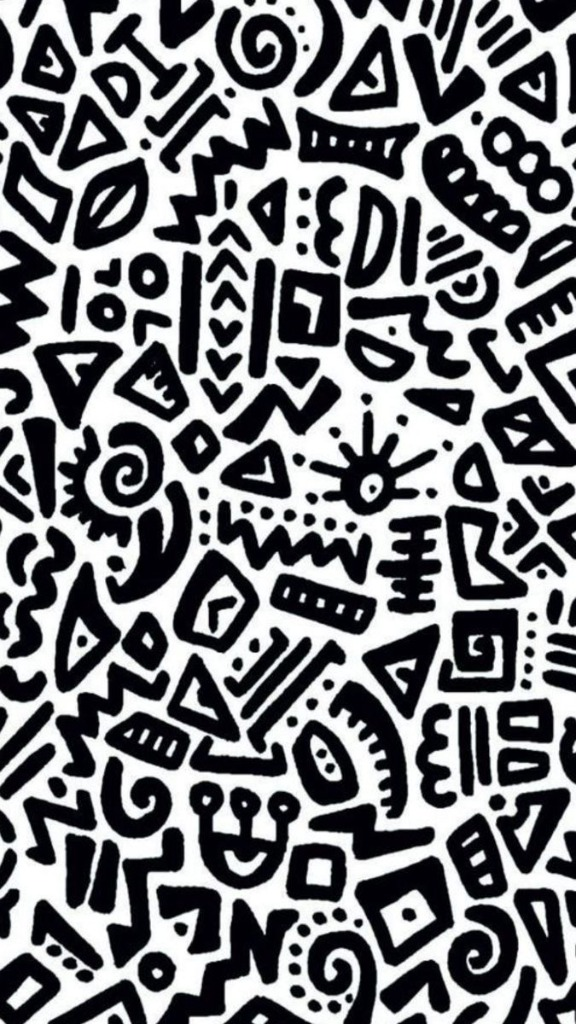
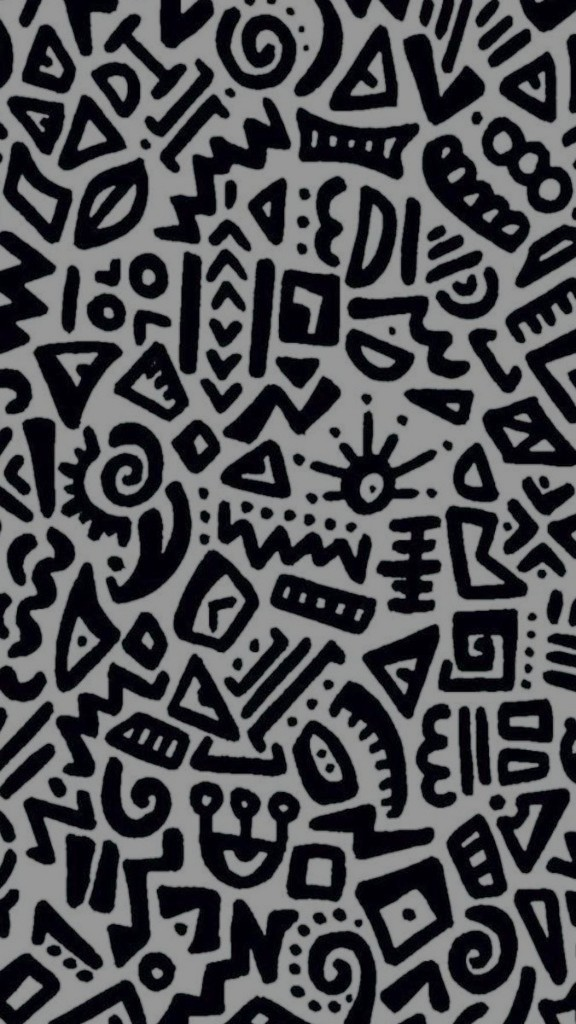
Opacity

diff --git a/css/style.css b/css/style.css
@@ -79,11 +79,11 @@ img {
   background-image: url('../images/patterns/modoria-pattern.jpg');
   background-repeat: repeat;
   background-size: 280px auto;
-  opacity: 0.15;
+  opacity: 0.25;
   pointer-events: none;
   z-index: 0;
-  filter: blur(1.5px) contrast(115%);
-  -webkit-filter: blur(1.5px) contrast(115%);
+  filter: blur(4.5px) contrast(145%);
+  -webkit-filter: blur(4.5px) contrast(145%);
   will-change: transform, filter;
   transform: translate3d(0, 0, 0);
 }
@@ -571,9 +571,9 @@ section.obs-section .bg::before {
 }
 
 .obs-section.theme-white .bg::before {
-  opacity: 0.13;
-  filter: blur(1.5px) contrast(115%);
-  -webkit-filter: blur(1.5px) contrast(115%);
+  opacity: 0.03;
+  filter: blur(2.5px) contrast(115%);
+  -webkit-filter: blur(2.5px) contrast(115%);
 }
 
 .obs-section.theme-white .section-heading {
@@ -633,9 +633,9 @@ section.obs-section .bg::before {
 }
 
 .obs-section.theme-gold .bg::before {
-  opacity: 0.20;
-  filter: blur(1.5px) contrast(125%);
-  -webkit-filter: blur(1.5px) contrast(125%);
+   opacity: 0.03;
+  filter: blur(2.5px) contrast(115%);
+  -webkit-filter: blur(2.5px) contrast(115%);
   mix-blend-mode: multiply;
 }
 
